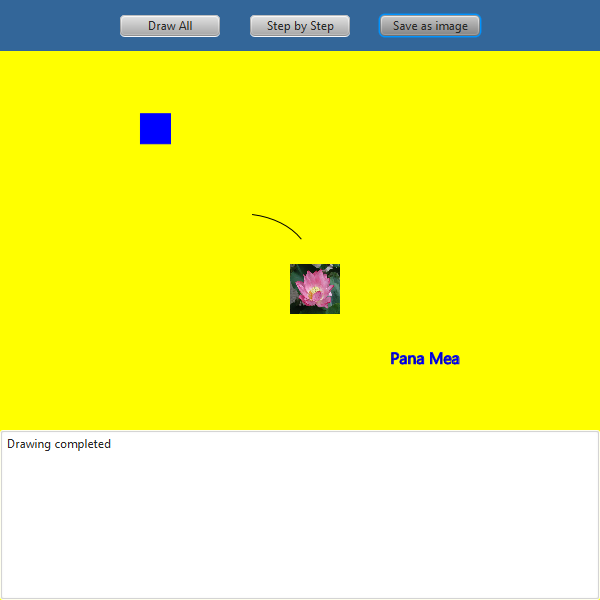
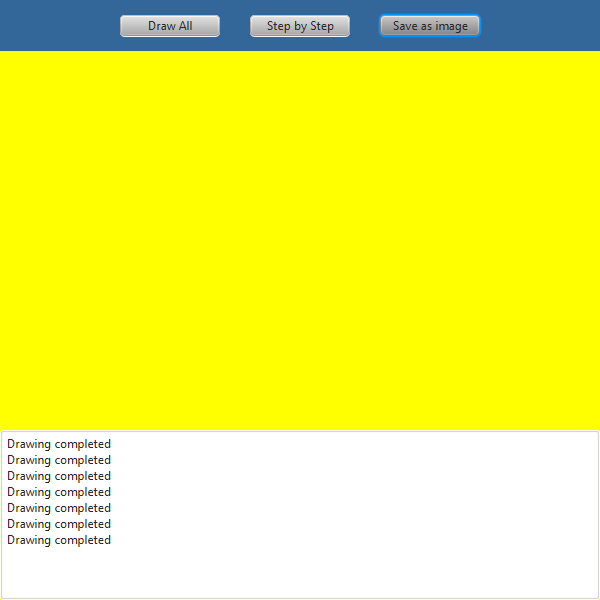
single stepping is finally working!

diff --git a/src/drawapp/Test.java b/src/drawapp/Test.java
@@ -1,11 +1,15 @@
 package drawapp;
 
 import java.awt.image.BufferedImage;
+import java.io.BufferedReader;
 import java.io.File;
 import java.io.IOException;
 import java.io.Reader;
 import java.io.StringReader;
 import java.util.ArrayList;
+import java.util.Queue;
+import java.util.logging.Level;
+import java.util.logging.Logger;
 import javafx.application.Application;
 import javafx.event.ActionEvent;
 import javafx.event.EventHandler;
@@ -19,6 +23,7 @@ import javafx.scene.image.Image;
 import javafx.scene.image.WritableImage;
 import javafx.scene.layout.BorderPane;
 import javafx.scene.layout.HBox;
+import javafx.scene.paint.Color;
 import javafx.stage.Stage;
 import javax.imageio.ImageIO;
 
@@ -29,12 +34,15 @@ import javax.imageio.ImageIO;
 public class Test extends Application {
     
     private BorderPane root = new BorderPane();
+    private TextA textArea = new TextA();
     private HBox hbox = new HBox();
     private Group group1=new Group();
-    private Group group2=new Group();
+    private Color stepColour=Color.BLACK;
     private ImageScene image;
     private Scene scene;
     private Reader reader;
+    private int commandNr=0;
+    private ArrayList<String> commands=new ArrayList<>();
     
     
     private java.awt.image.BufferedImage convertToAwtImage(javafx.scene.image.Image fxImage) {
@@ -54,18 +62,10 @@ public class Test extends Application {
         btn1.setOnAction(new EventHandler<ActionEvent>() {
             @Override
             public void handle(ActionEvent event) {
-               Parser1 parser = new Parser1(reader,scene,group1);
+               Parser1 parser = new Parser1(commands,scene,group1,textArea);
                parser.parse();
-                
-              /* ArrayList<Node> elements = image.getElements();
-               for (Node g :elements) {
-                  if(g == null){
-                      System.out.println("gol");
-                  }
-                  group1.getChildren().add(g);
-               }*/  
+             
                root.setCenter(group1);
-               //root.setBottom(image.getText());
                 
                 
             }
@@ -77,19 +77,21 @@ public class Test extends Application {
         btn2.setOnAction(new EventHandler<ActionEvent>() {
             @Override
             public void  handle(ActionEvent event) {
-                image = new ImageScene(scene);
-                Parser parser = new Parser(reader,image);
-                parser.parse();
                 
-                ArrayList<Node> elements = image.getElements();
-                for (Node g :elements) {
-                if(g == null){
-                System.out.println("gol");
+                System.out.println(commandNr);  
+                
+                Parser1 parser = new Parser1(commands,scene,group1,textArea,stepColour);
+                
+                if(commandNr<commands.size()){
+                parser.parseLineStep(commandNr);
+                stepColour=parser.getColor();
+                commandNr++;
+                
+                root.setCenter(group1);
                 }
-                group2.getChildren().add(g);
+                if (commandNr== commands.size()){
+                    textArea.Text("Drawing Completed!");
                 }
-                root.setCenter(group2);
-                root.setBottom(image.getText());
                 
             }
         });
@@ -122,12 +124,21 @@ public class Test extends Application {
         hbox.setAlignment(Pos.CENTER);
         hbox.getChildren().addAll(btn1,btn2,btn3);
         root.setTop(hbox);
+        root.setBottom(textArea.getTextArea());
         
         scene = new Scene(root, 600, 600);
         String eol = System.getProperty("line.separator");
         reader = new StringReader("SB yellow"+eol+"DA 150 200 70 50 30 50" + eol +"SC blue" + eol +"FR 50 50 30 30"+eol+"DS 300 300 @Pana Mea"+eol+"DI 200 200 50 50 @http://www.robots.ox.ac.uk/~vgg/research/flowers_demo/images/flower_4.jpg");
-        
-        
+        BufferedReader read = new BufferedReader(reader);
+        try {
+            String line =read.readLine();
+            while(line!=null){
+                if(line!=null)commands.add(line);  
+                line=read.readLine();
+            }
+        } catch (IOException ex) {
+            System.out.println("{IOException");
+        }
  
         primaryStage.setTitle("Draw App");
         primaryStage.setScene(scene);

diff --git a/src/drawapp/Parser1.java b/src/drawapp/Parser1.java
@@ -4,7 +4,10 @@ import javafx.scene.paint.Color;
 import java.io.BufferedReader;
 import java.io.IOException;
 import java.io.Reader;
+import java.util.ArrayList;
 import java.util.StringTokenizer;
+import java.util.logging.Level;
+import java.util.logging.Logger;
 import javafx.scene.Group;
 import javafx.scene.Node;
 import javafx.scene.Scene;
@@ -20,56 +23,76 @@ import javafx.scene.text.TextBuilder;
 
 public class Parser1
 {
-  private BufferedReader reader;
+  private ArrayList<String> commands;
   private Scene scene;
   private Group group;
   private Color colour;
- 
+  private TextA textArea;
 
-  public Parser1(Reader reader,Scene scene,Group group)
+
+  public Parser1(ArrayList<String> commands,Scene scene,Group group,TextA textArea)
   {
-    this.reader = new BufferedReader(reader);
+    this.commands = commands;
     this.scene = scene;
     this.group = group;
+    this.textArea = textArea;
     this.colour=Color.BLACK;
     
+  }
+  
+  public Parser1(ArrayList<String> commands,Scene scene,Group group,TextA textArea,Color colour){
+    this.commands = commands;
+    this.scene = scene;
+    this.group = group;
+    this.textArea = textArea;
+    this.colour=colour;
   }
 
   public void parse()
   {
-     TextArea textArea = new TextArea();
-        textArea.setPrefRowCount(10);
-        textArea.setPrefColumnCount(500);
-        textArea.setWrapText(true);
-        textArea.setPrefWidth(500);
+      int i=0;
     try
     {
-      String line = reader.readLine();
-      while (line != null)
+      String line=" ";
+      while ((line != null) && (i<commands.size()))
       {
-        parseLine(line);
-        line = reader.readLine();
+        line=commands.get(i);
+        if(line!=null)parseLine(line);
+        i++;
       }
     }
-    catch (IOException e)
-    {
-      textArea.setText("IOException");
-      return;
-    }
+    
     catch (ParseException e)
     {
-      textArea.setText("Parse Exception: " + e.getMessage());
+      textArea.Text("Parse Exception: " + e.getMessage());
       return;
     }
-      textArea.setText("Drawing completed");
+      textArea.Text("Drawing completed");
       
+  }
+  
+  public Color getColor(){
+      return colour;
   }
   
   public Group getGroup(){
       return group;
   }
   
-  
+  public void parseLineStep(int i){
+        try {
+            String line=commands.get(i);
+            System.out.println(line);
+            if((line != null) && i<commands.size()) {
+                parseLine(line);
+            }
+        } 
+        catch(ParseException e){
+            textArea.Text("Parse Exception: " + e.getMessage());
+            return;
+        }
+      
+  }
 
   private void parseLine(String line) throws ParseException
   {

diff --git a/src/drawapp/TextA.java b/src/drawapp/TextA.java
@@ -1,0 +1,29 @@
+package drawapp;
+
+import javafx.scene.control.TextArea;
+
+/**
+ *
+ * @author geo
+ */
+public class TextA {
+    private TextArea textArea;
+    
+    public TextA(){
+        textArea=new TextArea();
+        textArea.setPrefRowCount(10);
+        textArea.setPrefColumnCount(500);
+        textArea.setWrapText(true);
+        textArea.setPrefWidth(500);
+    }
+    
+    public void Text(String text){
+        String eol = System.getProperty("line.separator");
+        textArea.appendText(text + eol);
+    }
+    
+    public TextArea getTextArea(){
+        return textArea;
+    }
+    
+}
